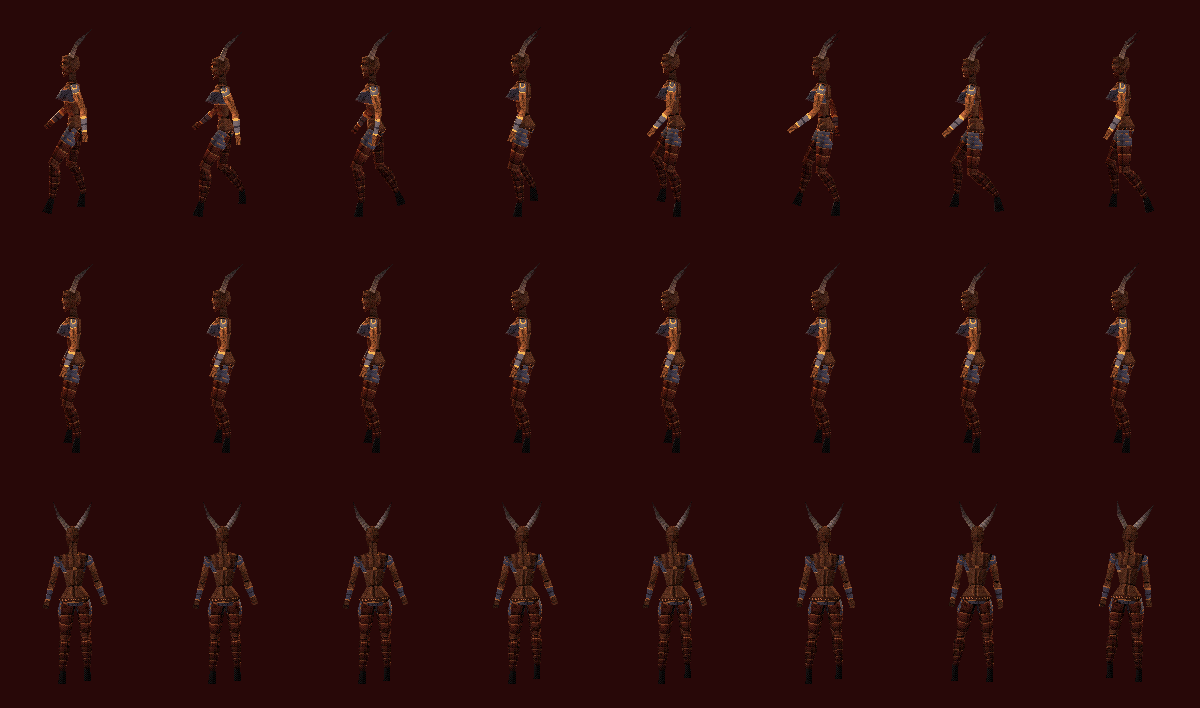
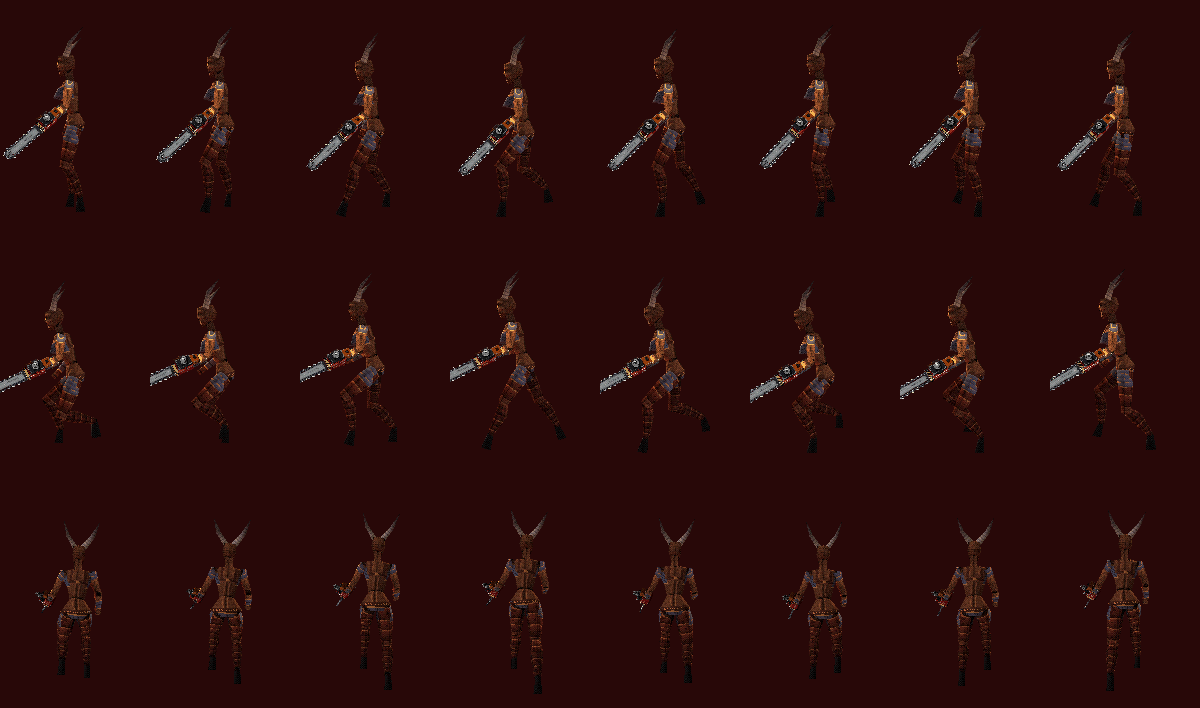
Heavy gait: small arm swings, chainsaw arm held low and steady, weighty footfalls
- clips: free arm swings a little, the saw arm barely moves (held low/forward, elbow bent, sways
  with her body); torso leans forward and away from the saw, twists less; pelvis rolls with
  each step; idle/air/land keep the saw arm heavy
- foot IK: longer, slower strides, longer ground contact, lower foot lift, bigger bob plus a
  sink after each footfall, more side-to-side weight shift
- small camera thud on each running footfall
- gait test walks the Turbine Hall and draws the chainsaw

Claude-Session: https://claude.ai/code/session_012tW2o1Tr2YJ8pCwfx14vK1

diff --git a/game/fkclips.c b/game/fkclips.c
@@ -3,63 +3,63 @@
 #include "fkclips.h"
 
 static const FKKey k_walk[] = {
-    { 0, { 0, -2, -7, 0, -2, 11, 0, 1, 0, 80, -22, 12, 80, 26, 32, 25, 3, -10, 4, -7, 14, 6, 4 } },
-    { 4, { 0, -2, -5, 2, -2, 8, 0, 1, 0, 80, -15, 14, 80, 21, 30, 23, 9, -3, 4, -11, 24, 13, 4 } },
-    { 8, { 0, -2, -4, 3, -2, 6, 0, 1, 0, 80, -8, 17, 80, 16, 27, 21, 15, -1, 4, -10, 38, 20, 4 } },
-    { 12, { 0, -2, -2, 2, -2, 3, 0, 1, 0, 80, -1, 20, 80, 11, 24, 18, 11, -2, 4, -5, 52, 11, 4 } },
-    { 16, { 0, -2, 0, 2, -2, 0, 0, 1, 0, 80, 6, 22, 80, 6, 22, 13, 8, -3, 4, 3, 45, 2, 4 } },
-    { 20, { 0, -2, 2, 1, -2, -3, 0, 1, 0, 80, 11, 24, 80, -1, 20, 8, 6, -4, 4, 14, 38, -2, 4 } },
-    { 24, { 0, -2, 4, 0, -2, -6, 0, 1, 0, 80, 16, 27, 80, -8, 17, 3, 5, -1, 4, 21, 19, -6, 4 } },
-    { 28, { 0, -2, 5, -1, -2, -8, 0, 1, 0, 80, 21, 30, 80, -15, 14, -2, 4, 3, 4, 24, 8, -8, 4 } },
-    { 32, { 0, -2, 7, -2, -2, -11, 0, 1, 0, 80, 26, 32, 80, -22, 12, -7, 14, 6, 4, 25, 3, -10, 4 } },
-    { 36, { 0, -2, 5, -2, -2, -8, 0, 1, 0, 80, 21, 30, 80, -15, 14, -11, 24, 13, 4, 23, 9, -3, 4 } },
-    { 40, { 0, -2, 4, -3, -2, -6, 0, 1, 0, 80, 16, 27, 80, -8, 17, -10, 38, 20, 4, 21, 15, -1, 4 } },
-    { 44, { 0, -2, 2, -2, -2, -3, 0, 1, 0, 80, 11, 24, 80, -1, 20, -5, 52, 11, 4, 18, 11, -2, 4 } },
-    { 48, { 0, -2, 0, -2, -2, 0, 0, 1, 0, 80, 6, 22, 80, 6, 22, 3, 45, 2, 4, 13, 8, -3, 4 } },
-    { 52, { 0, -2, -2, -1, -2, 3, 0, 1, 0, 80, -1, 20, 80, 11, 24, 14, 38, -2, 4, 8, 6, -4, 4 } },
-    { 56, { 0, -2, -4, 0, -2, 6, 0, 1, 0, 80, -8, 17, 80, 16, 27, 21, 19, -6, 4, 3, 5, -1, 4 } },
-    { 60, { 0, -2, -5, 0, -2, 8, 0, 1, 0, 80, -15, 14, 80, 21, 30, 24, 8, -8, 4, -2, 4, 3, 4 } },
-    { 64, { 0, -2, -7, 0, -2, 11, 0, 1, 0, 80, -22, 12, 80, 26, 32, 25, 3, -10, 4, -7, 14, 6, 4 } },
+    { 0, { 0, -3, -5, 0, -6, 5, 4, 2, 0, 76, -8, 18, 72, 18, 36, 25, 3, -10, 4, -7, 14, 6, 4 } },
+    { 4, { 0, -3, -4, 2, -7, 4, 3, 0, 0, 76, -5, 19, 72, 19, 38, 23, 9, -3, 4, -11, 24, 13, 4 } },
+    { 8, { 0, -3, -2, 5, -8, 2, 2, 0, 0, 76, -2, 20, 73, 20, 40, 21, 15, -1, 4, -10, 38, 20, 4 } },
+    { 12, { 0, -3, -1, 4, -7, 1, 2, 1, 0, 76, 0, 20, 72, 20, 39, 18, 11, -2, 4, -5, 52, 11, 4 } },
+    { 16, { 0, -3, 0, 3, -6, 0, 3, 2, 0, 76, 3, 21, 72, 21, 38, 13, 8, -3, 4, 3, 45, 2, 4 } },
+    { 20, { 0, -3, 1, 2, -5, -1, 4, 3, 0, 76, 5, 22, 72, 20, 36, 8, 6, -4, 4, 14, 38, -2, 4 } },
+    { 24, { 0, -3, 2, 1, -6, -2, 4, 2, 0, 76, 6, 22, 71, 20, 35, 3, 5, -1, 4, 21, 19, -6, 4 } },
+    { 28, { 0, -3, 4, 0, -6, -4, 4, 1, 0, 76, 8, 23, 72, 19, 36, -2, 4, 3, 4, 24, 8, -8, 4 } },
+    { 32, { 0, -3, 5, -2, -7, -5, 5, 0, 0, 76, 10, 24, 72, 18, 38, -7, 14, 6, 4, 25, 3, -10, 4 } },
+    { 36, { 0, -3, 4, -4, -8, -4, 6, -1, 0, 76, 8, 23, 72, 17, 39, -11, 24, 13, 4, 23, 9, -3, 4 } },
+    { 40, { 0, -3, 2, -5, -8, -2, 6, 0, 0, 76, 6, 22, 73, 16, 40, -10, 38, 20, 4, 21, 15, -1, 4 } },
+    { 44, { 0, -3, 1, -4, -7, -1, 6, 1, 0, 76, 5, 22, 72, 16, 39, -5, 52, 11, 4, 18, 11, -2, 4 } },
+    { 48, { 0, -3, 0, -3, -6, 0, 5, 2, 0, 76, 3, 21, 72, 15, 38, 3, 45, 2, 4, 13, 8, -3, 4 } },
+    { 52, { 0, -3, -1, -2, -5, 1, 4, 3, 0, 76, 0, 20, 72, 16, 36, 14, 38, -2, 4, 8, 6, -4, 4 } },
+    { 56, { 0, -3, -2, -1, -5, 2, 4, 3, 0, 76, -2, 20, 71, 16, 35, 21, 19, -6, 4, 3, 5, -1, 4 } },
+    { 60, { 0, -3, -4, 0, -6, 4, 4, 2, 0, 76, -5, 19, 72, 17, 36, 24, 8, -8, 4, -2, 4, 3, 4 } },
+    { 64, { 0, -3, -5, 0, -6, 5, 4, 2, 0, 76, -8, 18, 72, 18, 36, 25, 3, -10, 4, -7, 14, 6, 4 } },
 };
 const FKClip clip_walk = { "walk", k_walk, 17, 64, 1, { 0, 32 }, { 40, 8 } };
 
 static const FKKey k_run[] = {
-    { 0, { 30, -7, -10, 0, -7, 16, 0, 8, 0, 82, -40, 64, 82, 48, 92, 30, 20, 0, 3, 5, 82, 26, 3 } },
-    { 4, { 41, -7, -8, 2, -7, 12, 0, 8, 0, 82, -28, 68, 82, 38, 88, 22, 31, -2, 3, 20, 102, 18, 3 } },
-    { 8, { 40, -7, -5, 4, -7, 8, 0, 8, 0, 82, -17, 71, 82, 27, 85, 15, 33, -4, 3, 34, 108, 10, 3 } },
-    { 12, { 26, -7, -2, 3, -7, 4, 0, 8, 0, 82, -6, 74, 82, 16, 82, 5, 27, 2, 3, 48, 100, 5, 3 } },
-    { 16, { 8, -7, 0, 2, -7, 0, 0, 8, 0, 82, 6, 78, 82, 6, 78, -5, 24, 7, 3, 50, 84, 1, 3 } },
-    { 20, { -18, -7, 2, 1, -7, -4, 0, 8, 0, 82, 16, 82, 82, -6, 74, -15, 22, 19, 3, 52, 62, -4, 3 } },
-    { 24, { -33, -7, 5, 0, -7, -8, 0, 8, 0, 82, 27, 85, 82, -17, 71, -17, 34, 28, 3, 45, 42, -3, 3 } },
-    { 28, { -40, -7, 8, -1, -7, -12, 0, 8, 0, 82, 38, 88, 82, -28, 68, -10, 60, 30, 3, 38, 26, -1, 3 } },
-    { 32, { 30, -7, 10, -2, -7, -16, 0, 8, 0, 82, 48, 92, 82, -40, 64, 5, 82, 26, 3, 30, 20, 0, 3 } },
-    { 36, { 41, -7, 8, -3, -7, -12, 0, 8, 0, 82, 38, 88, 82, -28, 68, 20, 102, 18, 3, 22, 31, -2, 3 } },
-    { 40, { 40, -7, 5, -4, -7, -8, 0, 8, 0, 82, 27, 85, 82, -17, 71, 34, 108, 10, 3, 15, 33, -4, 3 } },
-    { 44, { 26, -7, 2, -3, -7, -4, 0, 8, 0, 82, 16, 82, 82, -6, 74, 48, 100, 5, 3, 5, 27, 2, 3 } },
-    { 48, { 8, -7, 0, -2, -7, 0, 0, 8, 0, 82, 6, 78, 82, 6, 78, 50, 84, 1, 3, -5, 24, 7, 3 } },
-    { 52, { -18, -7, -2, -1, -7, 4, 0, 8, 0, 82, -6, 74, 82, 16, 82, 52, 62, -4, 3, -15, 22, 19, 3 } },
-    { 56, { -33, -7, -5, 0, -7, 8, 0, 8, 0, 82, -17, 71, 82, 27, 85, 45, 42, -3, 3, -17, 34, 28, 3 } },
-    { 60, { -40, -7, -8, 0, -7, 12, 0, 8, 0, 82, -28, 68, 82, 38, 88, 38, 26, -1, 3, -10, 60, 30, 3 } },
-    { 64, { 30, -7, -10, 0, -7, 16, 0, 8, 0, 82, -40, 64, 82, 48, 92, 30, 20, 0, 3, 5, 82, 26, 3 } },
+    { 0, { 30, -9, -7, 0, -10, 7, 4, 10, 0, 74, -14, 66, 66, 30, 52, 30, 20, 0, 3, 5, 82, 26, 3 } },
+    { 4, { 41, -9, -5, 3, -13, 5, 2, 7, 0, 74, -10, 68, 68, 31, 56, 22, 31, -2, 3, 20, 102, 18, 3 } },
+    { 8, { 40, -9, -4, 6, -13, 4, 1, 7, 0, 74, -5, 70, 68, 32, 57, 15, 33, -4, 3, 34, 108, 10, 3 } },
+    { 12, { 26, -9, -2, 5, -12, 2, 2, 8, 0, 74, 0, 71, 67, 33, 55, 5, 27, 2, 3, 48, 100, 5, 3 } },
+    { 16, { 8, -9, 0, 4, -10, 0, 2, 10, 0, 74, 4, 73, 66, 34, 53, -5, 24, 7, 3, 50, 84, 1, 3 } },
+    { 20, { -18, -9, 2, 2, -9, -2, 3, 11, 0, 74, 8, 75, 65, 33, 51, -15, 22, 19, 3, 52, 62, -4, 3 } },
+    { 24, { -33, -9, 4, 1, -10, -4, 4, 10, 0, 74, 13, 76, 65, 32, 51, -17, 34, 28, 3, 45, 42, -3, 3 } },
+    { 28, { -40, -9, 5, -1, -11, -5, 5, 9, 0, 74, 18, 78, 66, 31, 53, -10, 60, 30, 3, 38, 26, -1, 3 } },
+    { 32, { 30, -9, 7, -2, -12, -7, 6, 8, 0, 74, 22, 80, 67, 30, 55, 5, 82, 26, 3, 30, 20, 0, 3 } },
+    { 36, { 41, -9, 5, -4, -13, -5, 6, 7, 0, 74, 18, 78, 68, 29, 57, 20, 102, 18, 3, 22, 31, -2, 3 } },
+    { 40, { 40, -9, 4, -6, -13, -4, 7, 7, 0, 74, 13, 76, 68, 28, 57, 34, 108, 10, 3, 15, 33, -4, 3 } },
+    { 44, { 26, -9, 2, -5, -12, -2, 6, 8, 0, 74, 8, 75, 67, 27, 55, 48, 100, 5, 3, 5, 27, 2, 3 } },
+    { 48, { 8, -9, 0, -4, -10, 0, 6, 10, 0, 74, 4, 73, 66, 26, 53, 50, 84, 1, 3, -5, 24, 7, 3 } },
+    { 52, { -18, -9, -2, -2, -9, 2, 5, 11, 0, 74, 0, 71, 65, 27, 51, 52, 62, -4, 3, -15, 22, 19, 3 } },
+    { 56, { -33, -9, -4, -1, -9, 4, 4, 11, 0, 74, -5, 70, 64, 28, 50, 45, 42, -3, 3, -17, 34, 28, 3 } },
+    { 60, { -40, -9, -5, 0, -10, 5, 4, 10, 0, 74, -10, 68, 65, 29, 51, 38, 26, -1, 3, -10, 60, 30, 3 } },
+    { 64, { 30, -9, -7, 0, -10, 7, 4, 10, 0, 74, -14, 66, 66, 30, 52, 30, 20, 0, 3, 5, 82, 26, 3 } },
 };
 const FKClip clip_run = { "run", k_run, 17, 64, 1, { 0, 32 }, { 22, 54 } };
 
 static const FKKey k_idle[] = {
-    { 0, { 0, 0, 0, -3, -2, 0, 3, -2, 0, 72, 4, 22, 74, 4, 18, 6, 14, 0, 8, 2, 4, 0, 4 } },
-    { 48, { 0, 0, 0, -4, 1, 0, 4, 1, -6, 70, 8, 26, 72, 6, 22, 6, 16, 0, 8, 2, 5, 0, 4 } },
-    { 96, { 0, 0, 0, -3, -2, 0, 3, -2, 0, 72, 4, 22, 74, 4, 18, 6, 14, 0, 8, 2, 4, 0, 4 } },
+    { 0, { 0, 0, 0, -3, -4, 0, 5, -3, 0, 72, 4, 22, 78, 8, 14, 6, 14, 0, 8, 2, 4, 0, 4 } },
+    { 48, { 0, 0, 0, -4, -1, 0, 6, 0, -6, 70, 8, 26, 77, 9, 16, 6, 16, 0, 8, 2, 5, 0, 4 } },
+    { 96, { 0, 0, 0, -3, -4, 0, 5, -3, 0, 72, 4, 22, 78, 8, 14, 6, 14, 0, 8, 2, 4, 0, 4 } },
 };
 const FKClip clip_idle = { "idle", k_idle, 3, 96, 1, { 0, 0 }, { 0, 0 } };
 
 static const FKKey k_air[] = {
-    { 0, { 0, -6, 0, 0, -10, 0, 0, 10, 0, 60, 40, 70, 64, -24, 50, 58, 96, 20, 5, -14, 50, 30, 5 } },
-    { 16, { 0, -4, 0, 0, -6, 0, 0, 6, 0, 52, 24, 60, 54, 10, 60, 50, 80, 14, 5, 10, 60, 20, 5 } },
-    { 32, { 0, 2, 0, 0, -2, 0, 0, -6, 0, 44, 24, 36, 44, 24, 36, 30, 34, -4, 10, 14, 24, -4, 10 } },
+    { 0, { 0, -6, 0, 0, -10, 0, 0, 10, 0, 62, 24, 60, 66, 16, 44, 58, 96, 20, 5, -14, 50, 30, 5 } },
+    { 16, { 0, -4, 0, 0, -6, 0, 0, 6, 0, 56, 18, 52, 62, 20, 44, 50, 80, 14, 5, 10, 60, 20, 5 } },
+    { 32, { 0, 2, 0, 0, -2, 0, 0, -6, 0, 50, 16, 34, 58, 24, 40, 30, 34, -4, 10, 14, 24, -4, 10 } },
 };
 const FKClip clip_air = { "air", k_air, 3, 32, 0, { 0, 0 }, { 0, 0 } };
 
 static const FKKey k_land[] = {
-    { 0, { 0, -14, 0, 0, -18, 0, 0, 18, 0, 50, 30, 50, 50, 30, 50, 56, 96, -14, 10, 50, 92, -14, 10 } },
-    { 1, { 0, -14, 0, 0, -18, 0, 0, 18, 0, 50, 30, 50, 50, 30, 50, 56, 96, -14, 10, 50, 92, -14, 10 } },
+    { 0, { 0, -14, 0, 0, -18, 0, 5, 18, 0, 56, 24, 46, 62, 32, 44, 56, 96, -14, 10, 50, 92, -14, 10 } },
+    { 1, { 0, -14, 0, 0, -18, 0, 5, 18, 0, 56, 24, 46, 62, 32, 44, 56, 96, -14, 10, 50, 92, -14, 10 } },
 };
 const FKClip clip_land = { "land", k_land, 2, 1, 0, { 0, 0 }, { 0, 0 } };

diff --git a/tools/make_fkclips.py b/tools/make_fkclips.py
@@ -18,7 +18,7 @@ def interp(curve, f, length):
             return va + (vb - va) * (f - a) / (b - a) if b > a else va
     return pts[0][1]
 
-def cycle(name, length, base, leg, arm, body, frames, contact, liftoff):
+def cycle(name, length, base, leg, arm, body, frames, contact, liftoff, arm_r=None):
     keys = []
     half = length // 2
     for f in frames:
@@ -27,8 +27,12 @@ def cycle(name, length, base, leg, arm, body, frames, contact, liftoff):
         for side, off in (("L", 0), ("R", half)):
             for k, curve in leg.items(): v[side + k] = interp(curve, f - off, length)
             for k, curve in arm.items():
+                if side == "R" and arm_r is not None:
+                    continue
                 # arms swing opposite their own-side leg
                 v[side + k] = interp(curve, f - off - half, length) if k == "SS" else interp(curve, f - off, length)
+        if arm_r is not None:          # the chainsaw arm has its own curves (absolute frames)
+            for k, curve in arm_r.items(): v["R" + k] = interp(curve, f, length)
         keys.append((f, v))
     return dict(name=name, length=length, loop=1, keys=keys, contact=contact, liftoff=liftoff)
 
@@ -44,55 +48,70 @@ def pose(**kw):
 F8 = list(range(0, 65, 8))
 F4 = list(range(0, 65, 4))
 
-# --- walk: heel strike, roll over a slightly flexed leg, push off, high knee swing
+# She is a heavy creature with a chainsaw strapped to her right fist:
+#  * short, slow arm swings; the free left arm swings a little, the saw arm barely moves
+#    (held low and a touch forward, elbow bent, it just sways with her body)
+#  * the torso leans away from the saw and forward, twists little, and the pelvis rolls
+#    side to side as her weight moves from foot to foot (the pelvis bob / stride / foot lift
+#    that go with it are in player.c)
+
+# --- walk: heavy plod - flat heel strike, long loaded stance, low swing, weight rolling over each foot
 walk = cycle("walk", 64, STAND,
     leg=dict(HP=[(0,25),(10,20),(20,8),(30,-5),(38,-13),(46,-2),(52,14),(58,24)],
              KN=[(0,3),(8,15),(18,6),(28,4),(36,24),(44,52),(52,38),(58,10)],
              AN=[(0,-10),(6,0),(20,-4),(32,6),(40,20),(48,2),(56,-6)],
              AB=[(0,4)]),
-    arm=dict(SD=[(0,80)], SS=[(0,26),(16,6),(32,-22),(48,6)], EL=[(0,12),(32,32)]),
-    body=dict(PRX=[(0,-2)], TRX=[(0,-2)], HRX=[(0,1)],
-              PRY=[(0,-7),(16,0),(32,7),(48,0)], TRY=[(0,11),(16,0),(32,-11),(48,0)],
-              PRZ=[(0,0),(8,3),(24,0),(40,-3),(56,0)],
+    arm=dict(SD=[(0,76)], SS=[(0,10),(16,3),(32,-8),(48,3)], EL=[(0,18),(32,24)]),
+    arm_r=dict(SD=[(0,72),(8,73),(24,71),(40,73),(56,71)],
+               SS=[(0,18),(16,21),(32,18),(48,15)],
+               EL=[(0,36),(8,40),(24,35),(40,40),(56,35)]),
+    body=dict(PRX=[(0,-3)], TRX=[(0,-6),(6,-8),(20,-5),(38,-8),(52,-5)], HRX=[(0,2),(6,-1),(20,3),(38,-1),(52,3)],
+              PRY=[(0,-5),(16,0),(32,5),(48,0)], TRY=[(0,5),(16,0),(32,-5),(48,0)],
+              PRZ=[(0,0),(8,5),(24,1),(40,-5),(56,-1)],
+              TRZ=[(0,4),(8,2),(24,4),(40,6),(56,4)],
               PY=[(0,0)]),
     frames=list(range(0, 65, 4)), contact=(0, 32), liftoff=(40, 8))
 
-# --- run: forward lean, short ground contact, flight, knee drives high, pumping bent arms
+# --- run: lumbering charge - big forward lean, heavy landings, free arm pumps short, saw held forward
 run = cycle("run", 64, STAND,
     leg=dict(HP=[(0,30),(8,15),(16,-5),(22,-20),(28,-10),(36,20),(44,48),(52,52),(58,42)],
              KN=[(0,20),(6,36),(14,24),(22,22),(30,72),(38,112),(46,96),(54,50),(60,26)],
              AN=[(0,0),(8,-4),(18,10),(22,28),(30,30),(40,10),(52,-4)],
              AB=[(0,3)]),
-    arm=dict(SD=[(0,82)], SS=[(0,48),(16,6),(32,-40),(48,6)], EL=[(0,64),(32,92)]),
-    body=dict(PRX=[(0,-7)], TRX=[(0,-7)], HRX=[(0,8)],
-              PRY=[(0,-10),(16,0),(32,10),(48,0)], TRY=[(0,16),(16,0),(32,-16),(48,0)],
-              PRZ=[(0,0),(8,4),(24,0),(40,-4),(56,0)],
+    arm=dict(SD=[(0,74)], SS=[(0,22),(16,4),(32,-14),(48,4)], EL=[(0,66),(32,80)]),
+    arm_r=dict(SD=[(0,66),(6,69),(22,64),(38,69),(54,64)],
+               SS=[(0,30),(16,34),(32,30),(48,26)],
+               EL=[(0,52),(6,58),(22,50),(38,58),(54,50)]),
+    body=dict(PRX=[(0,-9)], TRX=[(0,-10),(6,-14),(20,-9),(38,-14),(52,-9)], HRX=[(0,10),(6,6),(20,11),(38,6),(52,11)],
+              PRY=[(0,-7),(16,0),(32,7),(48,0)], TRY=[(0,7),(16,0),(32,-7),(48,0)],
+              PRZ=[(0,0),(8,6),(24,1),(40,-6),(56,-1)],
+              TRZ=[(0,4),(8,1),(24,4),(40,7),(56,4)],
               PY=[(0,30),(6,46),(14,20),(22,-30),(28,-40),(32,30),(38,46),(46,20),(54,-30),(60,-40)]),
     frames=F4, contact=(0, 32), liftoff=(22, 54))
 
-# --- idle: weight on the right leg, slow breathing, a little sway
+# --- idle: weight on the right leg, the saw arm hanging heavy, slow breathing
 idle = dict(name="idle", length=96, loop=1, contact=(0,0), liftoff=(0,0), keys=[
-    (0,  pose(TRX=-2, HRX=-2, PRZ=-3, TRZ=3, LHP=6, LKN=14, LAB=8, RHP=2, RKN=4, RAB=4, LSD=72, RSD=74, LEL=22, REL=18)),
-    (48, pose(TRX=1, HRX=1, PRZ=-4, TRZ=4, HRY=-6, LHP=6, LKN=16, LAB=8, RHP=2, RKN=5, RAB=4, LSD=70, RSD=72, LSS=8, RSS=6, LEL=26, REL=22)),
-    (96, pose(TRX=-2, HRX=-2, PRZ=-3, TRZ=3, LHP=6, LKN=14, LAB=8, RHP=2, RKN=4, RAB=4, LSD=72, RSD=74, LEL=22, REL=18)),
+    (0,  pose(TRX=-4, HRX=-3, PRZ=-3, TRZ=5, LHP=6, LKN=14, LAB=8, RHP=2, RKN=4, RAB=4, LSD=72, RSD=78, LEL=22, REL=14, RSS=8)),
+    (48, pose(TRX=-1, HRX=0, PRZ=-4, TRZ=6, HRY=-6, LHP=6, LKN=16, LAB=8, RHP=2, RKN=5, RAB=4, LSD=70, RSD=77, LSS=8, RSS=9, LEL=26, REL=16)),
+    (96, pose(TRX=-4, HRX=-3, PRZ=-3, TRZ=5, LHP=6, LKN=14, LAB=8, RHP=2, RKN=4, RAB=4, LSD=72, RSD=78, LEL=22, REL=14, RSS=8)),
 ])
 
 # --- air: rising tuck -> falling reach (sampled by vertical speed, 0 = rising fast, 32 = falling)
 air = oneshot("air", [
     (0,  pose(PRX=-6, TRX=-10, HRX=10, LHP=58, LKN=96, LAN=20, RHP=-14, RKN=50, RAN=30,
-              LSD=60, LSS=40, LEL=70, RSD=64, RSS=-24, REL=50)),
+              LSD=62, LSS=24, LEL=60, RSD=66, RSS=16, REL=44)),
     (16, pose(PRX=-4, TRX=-6, HRX=6, LHP=50, LKN=80, LAN=14, RHP=10, RKN=60, RAN=20,
-              LSD=52, LSS=24, LEL=60, RSD=54, RSS=10, REL=60)),
+              LSD=56, LSS=18, LEL=52, RSD=62, RSS=20, REL=44)),
     (32, pose(PRX=2, TRX=-2, HRX=-6, LHP=30, LKN=34, LAN=-4, RHP=14, RKN=24, RAN=-4,
-              LSD=44, LSS=24, LEL=36, RSD=44, RSS=24, REL=36, LAB=10, RAB=10)),
+              LSD=50, LSS=16, LEL=34, RSD=58, RSS=24, REL=40, LAB=10, RAB=10)),
 ])
 
 # --- land: crouch on impact (blended in by the landing spring)
 land = oneshot("land", [
     (0, pose(PRX=-14, TRX=-18, HRX=18, LHP=56, LKN=96, LAN=-14, RHP=50, RKN=92, RAN=-14, LAB=10, RAB=10,
-             LSD=50, LSS=30, LEL=50, RSD=50, RSS=30, REL=50)),
+             LSD=56, LSS=24, LEL=46, RSD=62, RSS=32, REL=44, TRZ=5)),
     (1, pose(PRX=-14, TRX=-18, HRX=18, LHP=56, LKN=96, LAN=-14, RHP=50, RKN=92, RAN=-14, LAB=10, RAB=10,
-             LSD=50, LSS=30, LEL=50, RSD=50, RSS=30, REL=50)),
+             LSD=56, LSS=24, LEL=46, RSD=62, RSS=32, REL=44, TRZ=5)),
 ])
 
 clips = [walk, run, idle, air, land]

diff --git a/game/player.c b/game/player.c
@@ -182,8 +182,8 @@ void player_update(Player *p, u32 pad, int input_yaw, int input_mag)
         if (!p->grounded) amp_t = p->amp;
         p->runw += (run_t - p->runw) / 6;
         p->amp += (amp_t - p->amp) / 3;
-        p->stance = 2540 + ((1434 - 2540) * p->runw >> 12);                /* 0.62 .. 0.35 of a cycle */
-        exc = 300 + (60 * p->runw >> 12);
+        p->stance = 2580 + ((1680 - 2580) * p->runw >> 12);                /* 0.63 .. 0.41: heavy, long ground contact */
+        exc = 330 + (80 * p->runw >> 12);                                  /* long, slow strides */
         exc = exc * clamp(sp * 4096 / 300, 0, 4096) >> 12;                  /* full stride from 1.2 m/s */
         p->exc = exc;
         if (exc < 24) exc = 24;
@@ -317,9 +317,9 @@ static void place_feet(Player *p, const Model *m)
             q = (ph - p->stance) * 4096 / (4096 - p->stance);
             off = -p->exc + (2 * p->exc * smooth(q) >> 12);
             swing = 1;
-            h = mixi(80, 150, run) * clamp(p->speed16 * 4096 / (22 * SUB) + 1229, 0, 4096) >> 12;
+            h = mixi(58, 112, run) * clamp(p->speed16 * 4096 / (22 * SUB) + 1229, 0, 4096) >> 12;
             lift = (h * sinpi(q) >> 12) + (run * 80 >> 12) * sinpi(q * 3 / 2 > 4096 ? 4096 : q * 3 / 2) / 4096;
-            off -= (run * 120 >> 12) * sinpi(q * 7 / 5 > 4096 ? 4096 : q * 7 / 5) / 4096;   /* heel kicks up behind */
+            off -= (run * 70 >> 12) * sinpi(q * 7 / 5 > 4096 ? 4096 : q * 7 / 5) / 4096;   /* heel kicks up behind */
             pt = mixi(358, -117, smooth(q * 4096 / 3482));
         }
         off = off * amp >> 12; lift = lift * amp >> 12; pt = pt * amp >> 12;
@@ -365,9 +365,13 @@ static void place_feet(Player *p, const Model *m)
     /* pelvis: Slayer's bob / sway / run crouch / landing dip, then drop so both legs reach */
     ph12 = p->phase >> 4;
     mid = p->stance / 2;
-    bob = mixi(20 * icos((ph12 - mid) * 2 & 4095) >> 12, 40 * icos((ph12 - mid - 1024) * 2 & 4095) >> 12, run) * amp >> 12;
-    dz = 12 + (50 * run >> 12) * amp / 4096 - bob + (170 * p->landw >> 12) - (20 * air >> 12);
-    lat = (-22 * icos((ph12 - mid) & 4095) >> 12) * amp / 4096 * (4096 - run) / 4096;
+    bob = mixi(32 * icos((ph12 - mid) * 2 & 4095) >> 12, 58 * icos((ph12 - mid - 1024) * 2 & 4095) >> 12, run) * amp >> 12;
+    {   /* heavy footfalls: the body keeps sinking for a moment after each foot lands, then heaves up */
+        int h = ph12 & 2047;
+        if (h < 760) bob -= (s32)(mixi(26, 44, run) * isin(h * 2048 / 760) >> 12) * amp >> 12;
+    }
+    dz = 12 + (60 * run >> 12) * amp / 4096 - bob + (170 * p->landw >> 12) - (20 * air >> 12);
+    lat = (-34 * icos((ph12 - mid) & 4095) >> 12) * amp / 4096 * (4096 - run * 6 / 10) / 4096;   /* weight rolls side to side */
     {
         MATRIX R;
         VECTOR th;

diff --git a/platform/headless/gaittest.c b/platform/headless/gaittest.c
@@ -11,6 +11,9 @@
 #include "demon_tim.h"
 #undef DEMON_MESH_NO_DATA
 #include "demon_mesh.h"
+#include "chainsaw_mesh.h"
+#include "chainsaw_tim.h"
+#include <string.h>
 
 #define COLS 8
 #define CW 150
@@ -18,6 +21,7 @@
 static FrameBuf fb;
 static unsigned char sheet[CH * 3][CW * COLS][3];
 static Player pl;
+static Model saw_body, saw_chain;
 
 static void shot(const Model *m, int row, int col, int behind)
 {
@@ -40,6 +44,14 @@ static void shot(const Model *m, int row, int col, int behind)
     /* (no level geometry: the camera sits outside the arena walls) */
     for (b = 0; b < DEMON_NBONES; b++) mat_mul(&view, &pl.world[b], &cam[b]);
     model_draw_mats(m, cam, &ctx, &fb);
+    {   /* the arm chainsaw, as in the game */
+        MATRIX mount, sawm;
+        mat_identity(&mount);
+        mat_translate(&mount, DEMON_MOUNT_X, DEMON_MOUNT_Y, DEMON_MOUNT_Z);
+        mat_mul(&cam[DEMON_MOUNT_BONE], &mount, &sawm);
+        model_draw_mats(&saw_body, &sawm, &ctx, &fb);
+        model_draw_mats(&saw_chain, &sawm, &ctx, &fb);
+    }
     gpu_draw_ot(&fb);
     for (y = 0; y < CH; y++)
         for (x = 0; x < CW; x++) {
@@ -67,10 +79,26 @@ int main(int argc, char **argv)
     m.bones = (const DBONE *)demon_bones; m.nbones = DEMON_NBONES;
     m.tpage = tim.tpage; m.clut = tim.clut;
 
+    {
+        TimInfo st;
+        tim_upload(chainsaw_tim, CHAINSAW_TIM_SIZE, &st);
+        saw_body.verts = (const DVERT *)saw_verts; saw_body.nverts = SAW_NVERTS;
+        saw_body.prims = (const DPRIM *)saw_prims; saw_body.nprims = SAW_NPRIMS;
+        saw_body.bones = (const DBONE *)saw_bones; saw_body.nbones = 1;
+        saw_body.tpage = st.tpage; saw_body.clut = st.clut;
+        saw_chain = saw_body; saw_chain.bones = (const DBONE *)&saw_bones[1];
+    }
     player_init(&m);
     for (row = 0; row < 3; row++) {
         int mag = row ? 4096 : 2600, step = row ? 3 : 4, turn = row == 2 ? 200 : 0;
-        player_reset(&pl, -2800, -3000, 0);                     /* open floor, heading +Z */
+        {   /* the long Turbine Hall floor, heading +X */
+            int a;
+            for (a = 0; a < level_area_count(); a++) if (!strcmp(level_area(a)->name, "Turbine Hall")) break;
+            if (a < level_area_count()) {
+                const LabArea *ar = level_area(a);
+                player_reset(&pl, ar->x0 + 1500, (ar->z0 + ar->z1) / 2, 1024);
+            } else player_reset(&pl, -2800, -3000, 0);
+        }
         for (i = 0; i < 70; i++) { player_update(&pl, 0, 0, mag); player_pose(&pl, &m); }
         for (i = 0; i < COLS; i++) {
             int k;

diff --git a/game/deadbird.c b/game/deadbird.c
@@ -197,7 +197,16 @@ static void simulate(u32 pad)
         land_shake_t = 0;
         land_shake_amp = pl.land_amp * 110 >> 12;                             /* up to ~11 cm of camera jolt */
     } else if (land_shake_t < 99) land_shake_t++;
-    chain_ph += 5 + pl.speed / 6;                                             /* chain idles, revs when she runs */
+    chain_ph += 5 + pl.speed / 6;
+    {   /* heavy footfalls when she runs: a small camera thud each time a foot hits the floor */
+        static int prev_half;
+        int half = (pl.phase >> 15) & 1;
+        if (half != prev_half && pl.grounded && pl.runw > 1500 && land_shake_t >= 22) {
+            land_shake_t = 9;
+            land_shake_amp = 22 + (pl.runw * 26 >> 12);
+        }
+        prev_half = half;
+    }                                             /* chain idles, revs when she runs */
     player_pose(&pl, &demon);
     level_update();
     fx_update();
